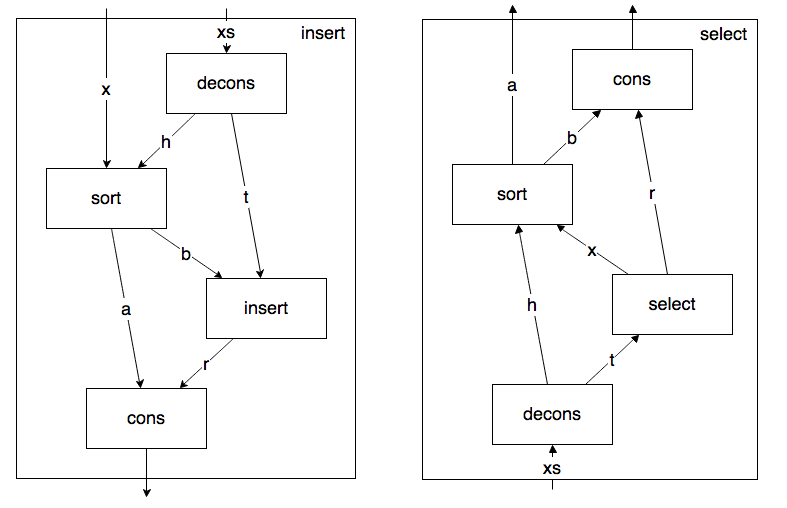
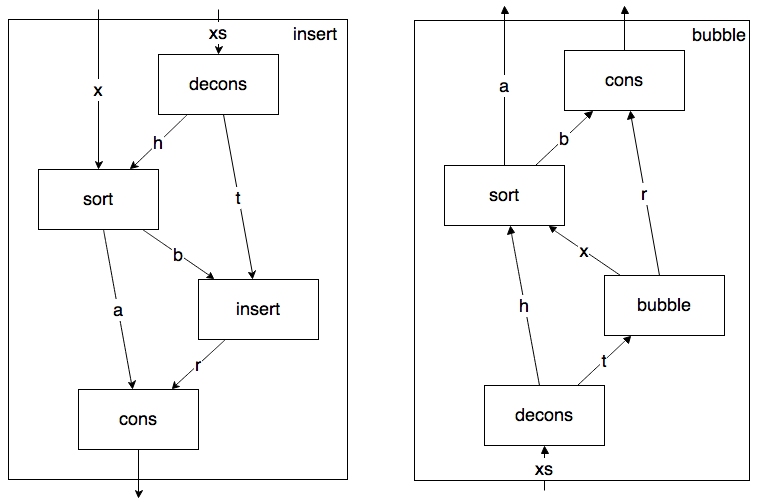
insertion sort draft

diff --git a/_drafts/insertion-sort-is-dual-to-bubble-sort.md b/_drafts/insertion-sort-is-dual-to-bubble-sort.md
@@ -1,14 +1,14 @@
 ---
 layout: post
-title: "Insertion Sort is dual to Selection Sort"
+title: "Insertion Sort is dual to Bubble Sort"
 description: ""
 category: 
 tags: [ "code" ]
 ---
 {% include JB/setup %}
 
-I happened to notice recently that [selection sort](http://en.wikipedia.org/wiki/Selection_sort)
-is [insertion sort](http://en.wikipedia.org/wiki/insertion_sort) backwards. Or inside out. Or something.
+I happened to notice recently that [insertion sort](http://en.wikipedia.org/wiki/insertion_sort) is
+[bubble sort](http://en.wikipedia.org/wiki/Bubble_sort) backwards. Or inside out. Or something.
 
 Both algorithms can be expressed as a main function that calls a recursive helper. Let's
 take a look at the main functions first.
@@ -16,7 +16,7 @@ take a look at the main functions first.
 ### The main functions
 
 ```insertionSort``` sorts a list by inserting the head of the list into the recursively sorted tail, in such a way that it remains sorted.
-```selectionSort``` sorts a list by extracting the smallest element from the list and consing it onto the front of the recursively sorted tail.
+```bubbleSort``` sorts a list by bubbling the smallest element to the front of the list and recursively sorting the tail.
 
 Here's the code:
 
@@ -31,37 +31,37 @@ def insertionSort[A <: Ordered[A]](xs: List[A]): List[A] = {
   }
 }
 
-def selectionSort[A <: Ordered[A]](xs: List[A]): List[A] = {
+def bubbleSort[A <: Ordered[A]](xs: List[A]): List[A] = {
   xs match {
     case Nil => Nil
     case xs => {
-      val (h, t) = select(xs)
-      val s = selectionSort(t)
+      val (h, t) = bubble(xs)
+      val s = bubbleSort(t)
       h :: s
     }
   }  
 }
 {% endhighlight %}
 
-Now let me show you these exact same algorithms in the form of data flow diagrams.
+Now let me show you these algorithms in the form of data flow diagrams.
 The boxes are functions, and the edges are data flow, labeled with the variable name that carries that piece of data.
 
 ![main function data flow](/assets/img/main.png)
 
-They are exactly the same, except with the arrows going the other way!
+They are exactly the same, except with the arrows going the other way.
+
 Of course you would also want each box to be the "backwards" version of its corresponding box in the other function.
 This is pretty obviously true for ```cons``` and ```decons``` — one constructs a list from a head and a tail,
 and the other deconstructs a list into a head and a tail.
-We can also invoke the induction hypothesis and claim that the recursive call to
-```selection sort``` is the "backwards" version of the corresponding recursive call to ```insertion sort```.
+And we can ainvoke the induction hypothesis and claim that the recursive call to
+```bubble sort``` is the "backwards" version of the corresponding recursive call to ```insertion sort```.
 
-All that's left is to show that this is true for helper functions — that ```select``` is ```insert``` backwards.
-Let's take a look.
+All that's left is to show that this is true for helper functions — that ```bubble``` is ```insert``` backwards.
 
 ### The helper functions
 
 ```insert```'s job is to insert an item into an already-sorted list in such a way that the list remains sorted.
-```select```'s job is to pull the smallest item out of a list and return that item plus the rest of the list.
+```bubble```'s job is to bubble the smallest item up to the front of the list and return that item plus the rest of the list.
 
 Here's the code:
 
@@ -103,7 +103,7 @@ def sort[A <: Ordered[A]](a: A, b: A): (A, A) = {
 {% endhighlight %}
 
 So, there you have it. Aside from the ```Nil``` cases and the question of ```sort``` being its own opposite,
-if you take a machine that does insertion sort and run it in reverse, you get a machine that does selection sort.
+if you take a machine that does insertion sort and run it in reverse, you get a machine that does bubble sort.
 
 I'm pretty sure this fits the categorical definition of a dual, but my Category theory isn't strong enough to say for sure.
 
@@ -137,13 +137,3 @@ in [strand sort](http://en.wikipedia.org/wiki/Strand_sort). If that turns out to
 Can you write a function that takes another function (or a suitable description thereof) as input and turns it
 inside out? Can we get new algorithms for free just by turning existing ones on their head? What happens if you
 run Dijkstra's algorithm backwards?
-
-I don't know! Good questions!
-
-
-
-
-
-
-
-
